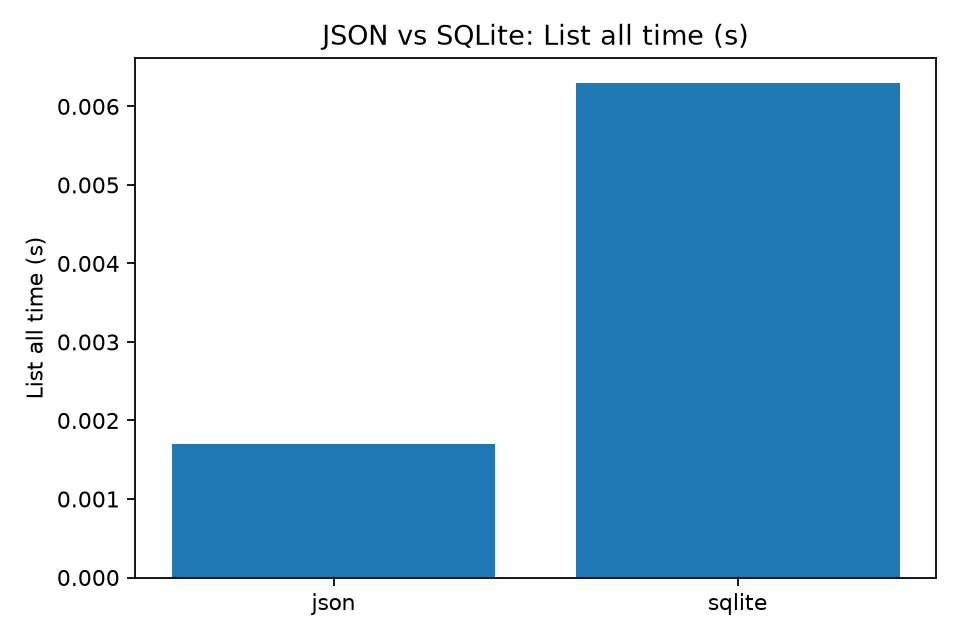
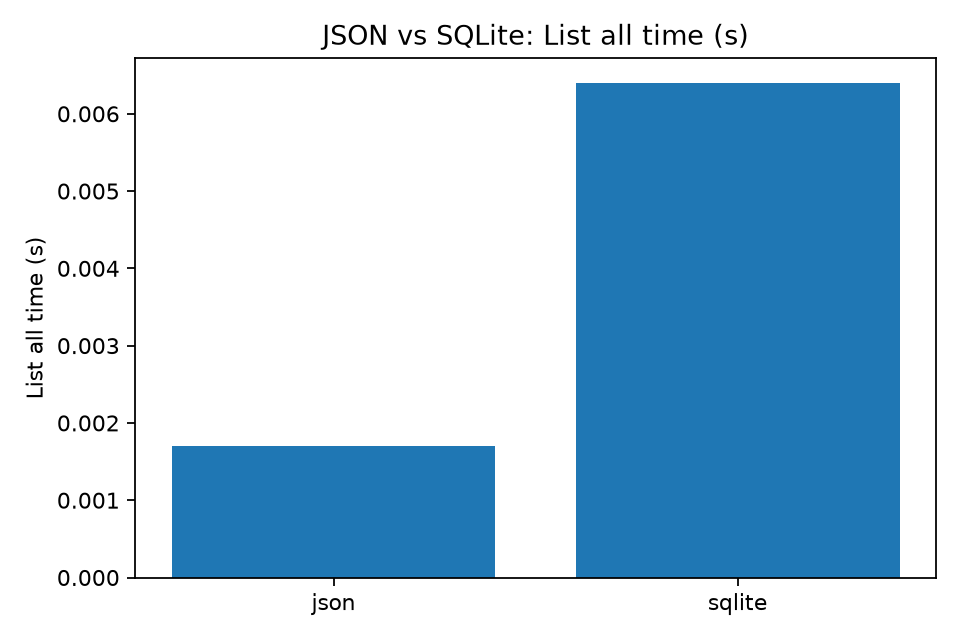
updated results

diff --git a/results/experiment_summary.md b/results/experiment_summary.md
@@ -1,26 +1,26 @@
 # CS2413 Project - Experiment and Test Results
 
-Generated (UTC): 2026-11-23T22:13:31.046257+00:00
+Generated (UTC): 2026-11-23T23:12:10.883313+00:00
 
 ## Experiment execution summary
 
 | Experiment | Result | Runtime (s) | Log |
 |---|---:|---:|---|
-| Experiment 1 - Credential data inspection | **SKIPPED** | 0 | — |
-| Experiment 2 - Hashing comparison | **PASS** | 43.927 | `results/logs/exp02_hashing_comparison.log` |
-| Experiment 3 - Password verification | **PASS** | 0.138 | `results/logs/exp03_password_verification.log` |
-| Experiment 4 - Password policy validation | **PASS** | 0.083 | `results/logs/exp04_policy_validation.log` |
-| Experiment 5 - Online attack simulation | **PASS** | 0.093 | `results/logs/exp05_online_attack.log` |
-| Experiment 6 - Lockout abuse and availability | **PASS** | 0.076 | `results/logs/exp06_lockout_abuse.log` |
-| Experiment 7 - Multi-factor authentication | **PASS** | 0.077 | `results/logs/exp07_mfa.log` |
-| Experiment 8 - Integrity and tampering | **PASS** | 0.078 | `results/logs/exp08_integrity_tampering.log` |
-| Experiment 9 - Session security | **PASS** | 0.067 | `results/logs/exp09_sessions.log` |
-| Experiment 10 - Storage comparison | **PASS** | 4.983 | `results/logs/exp10_storage_comparison.log` |
+| Experiment 1 - Credential data inspection | **PASS** | 0.089 | `results/logs/exp01_data_inspection.log` |
+| Experiment 2 - Hashing comparison | **PASS** | 44.052 | `results/logs/exp02_hashing_comparison.log` |
+| Experiment 3 - Password verification | **PASS** | 0.111 | `results/logs/exp03_password_verification.log` |
+| Experiment 4 - Password policy validation | **PASS** | 0.081 | `results/logs/exp04_policy_validation.log` |
+| Experiment 5 - Online attack simulation | **PASS** | 0.098 | `results/logs/exp05_online_attack.log` |
+| Experiment 6 - Lockout abuse and availability | **PASS** | 0.075 | `results/logs/exp06_lockout_abuse.log` |
+| Experiment 7 - Multi-factor authentication | **PASS** | 0.078 | `results/logs/exp07_mfa.log` |
+| Experiment 8 - Integrity and tampering | **PASS** | 0.077 | `results/logs/exp08_integrity_tampering.log` |
+| Experiment 9 - Session security | **PASS** | 0.065 | `results/logs/exp09_sessions.log` |
+| Experiment 10 - Storage comparison | **PASS** | 5.251 | `results/logs/exp10_storage_comparison.log` |
 
 ## Automated tests
 
 - **Result:** PASS
-- **Runtime:** 2.44 seconds
+- **Runtime:** 2.754 seconds
 - **Log:** `results/logs/pytest.log`
 
 ## Generated graphs
